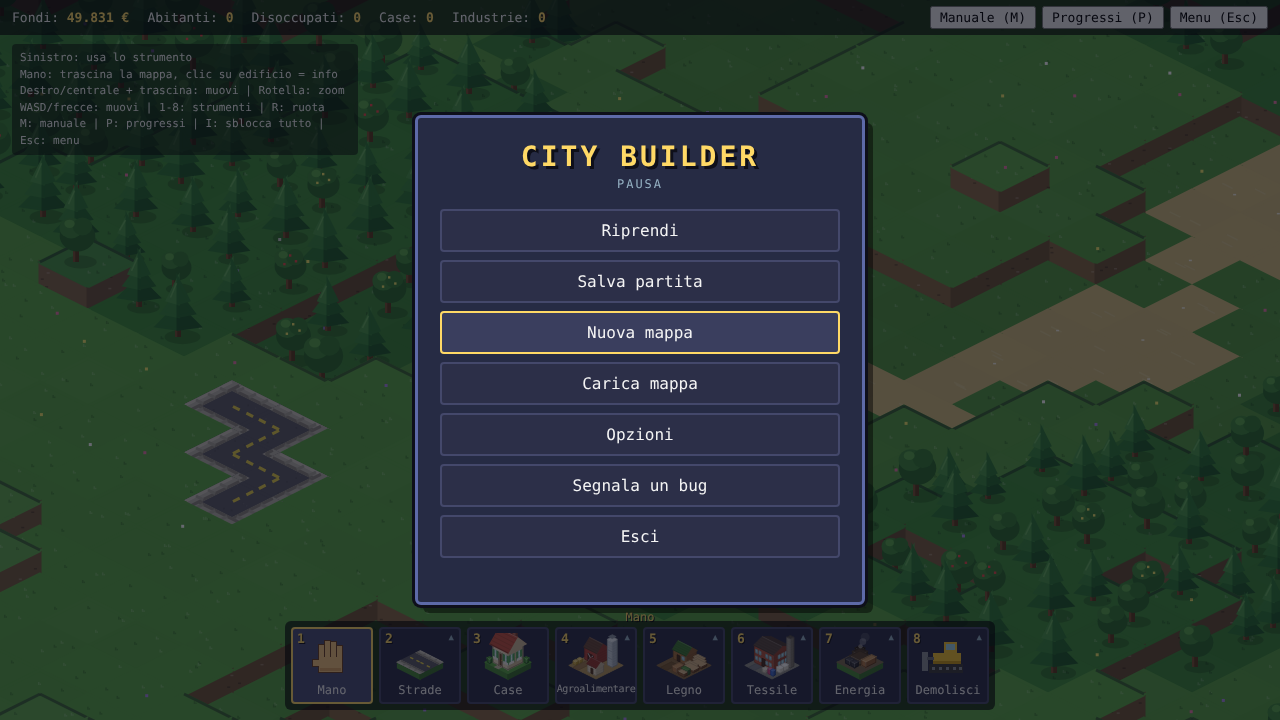
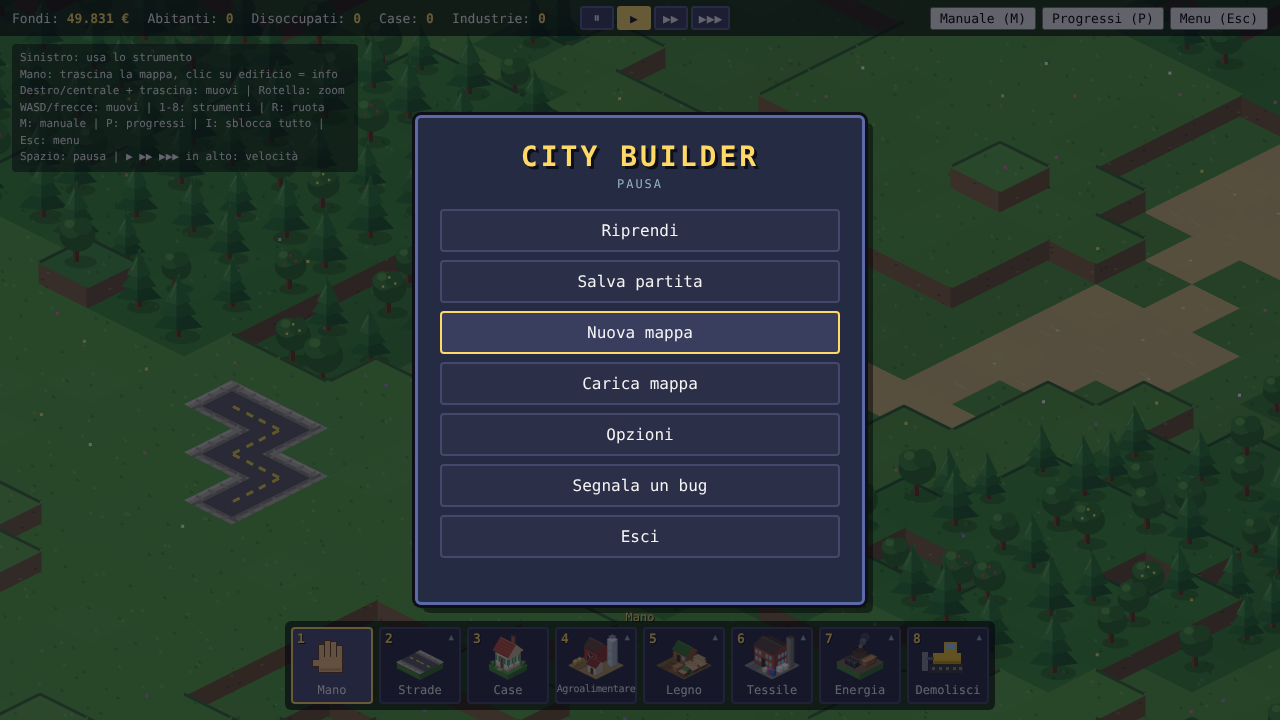
Pausa e velocità del gioco (normale, veloce, super rapido); tasto I con 10 milioni; distribuzione del magazzino anche da vuoto; icona della casa non più tagliata
Claude-Session: https://claude.ai/code/session_01EPii4HtPudbMHHXMoA5j75

diff --git a/js/i18n-es.js b/js/i18n-es.js
@@ -4,8 +4,8 @@ DICT.es = {
   // menú y barra superior
   'Fondi:': 'Fondos:', 'Abitanti:': 'Habitantes:', 'Disoccupati:': 'Desempleados:', 'Case:': 'Casas:', 'Industrie:': 'Industrias:',
   'Manuale (M)': 'Manual (M)', 'Progressi (P)': 'Progreso (P)', 'Menu (Esc)': 'Menú (Esc)', 'Fatto': 'Hecho', '↻ Ruota (R)': '↻ Girar (R)',
-  'Sinistro: usa lo strumento<br>Mano: trascina la mappa, clic su edificio = info<br>Destro/centrale + trascina: muovi | Rotella: zoom<br>WASD/frecce: muovi | 1-8: strumenti | R: ruota<br>M: manuale | P: progressi | I: sblocca tutto | Esc: menu':
-    'Clic izquierdo: usar la herramienta<br>Mano: arrastrar el mapa, clic en edificio = info<br>Derecho/central + arrastrar: mover | Rueda: zoom<br>WASD/flechas: mover | 1-8: herramientas | R: girar<br>M: manual | P: progreso | I: desbloquear todo | Esc: menú',
+  'Sinistro: usa lo strumento<br>Mano: trascina la mappa, clic su edificio = info<br>Destro/centrale + trascina: muovi | Rotella: zoom<br>WASD/frecce: muovi | 1-8: strumenti | R: ruota<br>M: manuale | P: progressi | I: sblocca tutto | Esc: menu<br>Spazio: pausa | ▶ ▶▶ ▶▶▶ in alto: velocità':
+    'Clic izquierdo: usar la herramienta<br>Mano: arrastrar el mapa, clic en edificio = info<br>Derecho/central + arrastrar: mover | Rueda: zoom<br>WASD/flechas: mover | 1-8: herramientas | R: girar<br>M: manual | P: progreso | I: desbloquear todo | Esc: menú<br>Espacio: pausa | ▶ ▶▶ ▶▶▶ arriba: velocidad',
   'Progressi': 'Progreso', 'Manuale': 'Manual', 'Come funziona ogni settore': 'Cómo funciona cada sector',
   'Riprendi': 'Continuar', 'Salva partita': 'Guardar partida', 'Nuova mappa': 'Nuevo mapa', 'Carica mappa': 'Cargar mapa', 'Opzioni': 'Opciones', 'Esci': 'Salir',
   'Nuova mappa: grandezza': 'Nuevo mapa: tamaño', 'Indietro': 'Atrás', 'Lingua': 'Idioma', 'Audio, grafica e controlli: ci stiamo lavorando!': 'Audio, gráficos y controles: ¡estamos trabajando en ello!',
@@ -65,7 +65,7 @@ DICT.es = {
   'Pozzo petrolifero (e magazzino merci).': 'Pozo petrolífero (y almacén de mercancías).',
   'Già sbloccato': 'Ya desbloqueado', 'Prima sblocca: {list}': 'Primero desbloquea: {list}', 'Fondi insufficienti (servono {m})': 'Fondos insuficientes (hacen falta {m})',
   'Sbloccato: {x}': 'Desbloqueado: {x}', 'Sbloccati {a} di {b} - Fondi: {m}': 'Desbloqueados {a} de {b} - Fondos: {m}', 'Già disponibili:': 'Ya disponibles:', 'colture:': 'cultivos:',
-  'Serve prima: {list}': 'Necesita antes: {list}', 'Sbloccato': 'Desbloqueado', 'Sblocca - {m}': 'Desbloquear - {m}', 'Tutto sbloccato (tasto I)': 'Todo desbloqueado (tecla I)',
+  'Serve prima: {list}': 'Necesita antes: {list}', 'Sbloccato': 'Desbloqueado', 'Sblocca - {m}': 'Desbloquear - {m}', 'Tutto sbloccato e 10 milioni di fondi (tasto I)': 'Todo desbloqueado y 10 millones de fondos (tecla I)',
   'Bloccato: sbloccalo nei Progressi (P)': 'Bloqueado: desbloquéalo en Progreso (P)',
   // mensajes de construcción y carreteras
   'Fondi insufficienti': 'Fondos insuficientes', 'Fuori dalla mappa': 'Fuera del mapa', "C'è già un binario": 'Ya hay vías de tren', "C'è già una strada": 'Ya hay una carretera',
@@ -126,6 +126,14 @@ DICT.es = {
   'Solo merci (legno, mobili, cotone, lana, tessuti, vestiti, energia). Manda la merce solo agli edifici che scegli qui sotto come uscita.': 'Solo mercancías (madera, muebles, algodón, lana, telas, ropa, energía). Envía la mercancía solo a los edificios que elijas abajo como salida.',
   'Si rifornisce dai magazzini che lo hanno come uscita. Tasse: {n}% del prezzo.': 'Se abastece de los almacenes que lo tienen como salida. Impuestos: {n}% del precio.',
   'Un magazzino rifornisce solo gli edifici che hai scelto come sua uscita (nel suo pannello): da lì fabbriche e negozi chiedono prima quello che gli manca. Il supermercato lascia la precedenza alle fabbriche per le merci che loro trasformano (es. la farina va prima al panificio).': 'Un almacén solo abastece a los edificios que elegiste como su salida (en su panel): de ahí fábricas y tiendas piden primero lo que les falta. El supermercado da prioridad a las fábricas para las mercancías que transforman (p. ej. la harina va primero a la panadería).',
+  'Pausa (Spazio)': 'Pausa (Espacio)',
+  'Normale': 'Normal',
+  'Veloce': 'Rápido',
+  'Super rapido': 'Superrápido',
+  'Gioco in pausa (Spazio per riprendere)': 'Juego en pausa (Espacio para seguir)',
+  'Il gioco riprende': 'El juego sigue',
+  'Distribuzione ({n} merci)': 'Distribución ({n} mercancías)',
+  'Per ogni merce: Automatica, oppure Personalizzata con la percentuale per ogni uscita.': 'Para cada mercancía: Automática, o Personalizada con el porcentaje de cada salida.',
   'Distribuzione per merce': 'Distribución por mercancía', 'Personalizzata': 'Personalizada', 'Automatica': 'Automática',
   'Clic per tornare alla distribuzione automatica': 'Clic para volver a la distribución automática', 'Clic per scegliere quanto mandare a ogni destinazione': 'Clic para elegir cuánto enviar a cada destino',
   'Questa merce non va da nessuna parte: metti almeno una percentuale.': 'Esta mercancía no va a ninguna parte: pon al menos un porcentaje.', 'Va alla destinazione che ne ha bisogno.': 'Va al destino que la necesita.',

diff --git a/js/i18n-en.js b/js/i18n-en.js
@@ -4,8 +4,8 @@ DICT.en = {
   // menu and top bar
   'Fondi:': 'Funds:', 'Abitanti:': 'Residents:', 'Disoccupati:': 'Unemployed:', 'Case:': 'Houses:', 'Industrie:': 'Industries:',
   'Manuale (M)': 'Manual (M)', 'Progressi (P)': 'Progress (P)', 'Menu (Esc)': 'Menu (Esc)', 'Fatto': 'Done', '↻ Ruota (R)': '↻ Rotate (R)',
-  'Sinistro: usa lo strumento<br>Mano: trascina la mappa, clic su edificio = info<br>Destro/centrale + trascina: muovi | Rotella: zoom<br>WASD/frecce: muovi | 1-8: strumenti | R: ruota<br>M: manuale | P: progressi | I: sblocca tutto | Esc: menu':
-    'Left click: use the tool<br>Hand: drag the map, click a building = info<br>Right/middle + drag: move | Wheel: zoom<br>WASD/arrows: move | 1-8: tools | R: rotate<br>M: manual | P: progress | I: unlock all | Esc: menu',
+  'Sinistro: usa lo strumento<br>Mano: trascina la mappa, clic su edificio = info<br>Destro/centrale + trascina: muovi | Rotella: zoom<br>WASD/frecce: muovi | 1-8: strumenti | R: ruota<br>M: manuale | P: progressi | I: sblocca tutto | Esc: menu<br>Spazio: pausa | ▶ ▶▶ ▶▶▶ in alto: velocità':
+    'Left click: use the tool<br>Hand: drag the map, click a building = info<br>Right/middle + drag: move | Wheel: zoom<br>WASD/arrows: move | 1-8: tools | R: rotate<br>M: manual | P: progress | I: unlock all | Esc: menu<br>Space: pause | ▶ ▶▶ ▶▶▶ at the top: speed',
   'Progressi': 'Progress', 'Manuale': 'Manual', 'Come funziona ogni settore': 'How every sector works',
   'Riprendi': 'Resume', 'Salva partita': 'Save game', 'Nuova mappa': 'New map', 'Carica mappa': 'Load map', 'Opzioni': 'Options', 'Esci': 'Quit',
   'Nuova mappa: grandezza': 'New map: size', 'Indietro': 'Back', 'Lingua': 'Language', 'Audio, grafica e controlli: ci stiamo lavorando!': 'Audio, graphics and controls: we are working on it!',
@@ -65,7 +65,7 @@ DICT.en = {
   'Pozzo petrolifero (e magazzino merci).': 'Oil well (and goods warehouse).',
   'Già sbloccato': 'Already unlocked', 'Prima sblocca: {list}': 'Unlock first: {list}', 'Fondi insufficienti (servono {m})': 'Not enough funds ({m} needed)',
   'Sbloccato: {x}': 'Unlocked: {x}', 'Sbloccati {a} di {b} - Fondi: {m}': 'Unlocked {a} of {b} - Funds: {m}', 'Già disponibili:': 'Already available:', 'colture:': 'crops:',
-  'Serve prima: {list}': 'Needs first: {list}', 'Sbloccato': 'Unlocked', 'Sblocca - {m}': 'Unlock - {m}', 'Tutto sbloccato (tasto I)': 'Everything unlocked (I key)',
+  'Serve prima: {list}': 'Needs first: {list}', 'Sbloccato': 'Unlocked', 'Sblocca - {m}': 'Unlock - {m}', 'Tutto sbloccato e 10 milioni di fondi (tasto I)': 'Everything unlocked and 10 million in funds (I key)',
   'Bloccato: sbloccalo nei Progressi (P)': 'Locked: unlock it in Progress (P)',
   // building and road messages
   'Fondi insufficienti': 'Not enough funds', 'Fuori dalla mappa': 'Outside the map', "C'è già un binario": 'There is already a railway', "C'è già una strada": 'There is already a road',
@@ -126,6 +126,14 @@ DICT.en = {
   'Solo merci (legno, mobili, cotone, lana, tessuti, vestiti, energia). Manda la merce solo agli edifici che scegli qui sotto come uscita.': 'Goods only (wood, furniture, cotton, wool, fabrics, clothes, energy). It sends goods only to the buildings you choose below as output.',
   'Si rifornisce dai magazzini che lo hanno come uscita. Tasse: {n}% del prezzo.': 'It restocks from the warehouses that have it as output. Taxes: {n}% of the price.',
   'Un magazzino rifornisce solo gli edifici che hai scelto come sua uscita (nel suo pannello): da lì fabbriche e negozi chiedono prima quello che gli manca. Il supermercato lascia la precedenza alle fabbriche per le merci che loro trasformano (es. la farina va prima al panificio).': 'A warehouse only supplies the buildings you chose as its output (in its panel): from those, factories and shops first ask for what they lack. The supermarket gives priority to factories for the goods they process (e.g. flour goes to the bakery first).',
+  'Pausa (Spazio)': 'Pause (Space)',
+  'Normale': 'Normal',
+  'Veloce': 'Fast',
+  'Super rapido': 'Super fast',
+  'Gioco in pausa (Spazio per riprendere)': 'Game paused (Space to resume)',
+  'Il gioco riprende': 'The game resumes',
+  'Distribuzione ({n} merci)': 'Distribution ({n} goods)',
+  'Per ogni merce: Automatica, oppure Personalizzata con la percentuale per ogni uscita.': 'For each good: Automatic, or Custom with the percentage for each output.',
   'Distribuzione per merce': 'Distribution per good', 'Personalizzata': 'Custom', 'Automatica': 'Automatic',
   'Clic per tornare alla distribuzione automatica': 'Click to go back to automatic distribution', 'Clic per scegliere quanto mandare a ogni destinazione': 'Click to choose how much to send to each destination',
   'Questa merce non va da nessuna parte: metti almeno una percentuale.': 'This good goes nowhere: set at least one percentage.', 'Va alla destinazione che ne ha bisogno.': 'It goes to the destination that needs it.',

diff --git a/js/panel.js b/js/panel.js
@@ -123,15 +123,20 @@ function goodsOut(b) {
   if (N && N.out) for (const g of Object.keys(N.out)) set.add(g);
   for (const r of RECIPES[b.kind] || []) if (b.recipes[r.out] !== false) set.add(r.out);
   for (const g of Object.keys(b.split || {})) set.add(g);
+  // magazzino: tutte le merci che accetta, anche se adesso è vuoto (richiesta dell'utente:
+  // la distribuzione si sceglie prima che arrivi la merce)
+  if (isWarehouse(b)) for (const g of Object.keys(GOODS)) if (warehouseTakes(b.kind, g) && b.accept[g] !== false) set.add(g);
   return [...set].filter(g => GOODS[g]);
 }
 
 // Distribuzione per merce: per ogni merce che può andare a più destinazioni accese si sceglie
 // "Automatica" (come prima) o la percentuale per ogni destinazione (es. 50% e 50%, o 100% a una).
-function splitSection(box, b) {
+function splitSection(box, b, inSub) {
   const rows = goodsOut(b).map(g => ({ g, ws: b.dests.map(id => game.buildings.get(id)).filter(w => w && takesGood(w, g)) }))
     .filter(r => r.ws.length >= 2);
-  box.appendChild(el('div', 'plabel', TR('Distribuzione per merce')));
+  if (!inSub) box.appendChild(el('div', 'plabel', TR('Distribuzione per merce')));
+  // tante merci (es. un magazzino con due uscite): la distribuzione va nella finestra a parte
+  if (!inSub && rows.length > 3) { box.appendChild(subButton('split', TR('Distribuzione ({n} merci)', { n: rows.length }))); return; }
   if (!rows.length) {   // la sezione si vede sempre, con la spiegazione di come accenderla
     box.appendChild(el('div', 'pnote psplit', TR('Accendi almeno due destinazioni che accettano la stessa merce: qui potrai decidere quanta ne va a ognuna (es. 50% e 50%, o 100% a una sola).')));
     return;
@@ -202,16 +207,19 @@ function subButton(kind, text) {
 function closeSubpanel() { subOpen = null; document.getElementById('subpanel').hidden = true; }
 function renderSubpanel(b) {
   const box = document.getElementById('subpanel');
-  const ok = b && ((subOpen === 'accept' && isWarehouse(b)) || (subOpen === 'recipes' && isProcessor(b)));
+  const ok = b && ((subOpen === 'accept' && isWarehouse(b)) || (subOpen === 'recipes' && isProcessor(b)) || (subOpen === 'split' && b.dests));
   if (!ok) { box.hidden = true; if (subOpen && b) subOpen = null; return; }
   box.textContent = '';
   const head = el('div', 'phead');
-  head.appendChild(el('b', 'pname', subOpen === 'accept' ? TR('Cosa accetta') : TR('Ricette')));
+  head.appendChild(el('b', 'pname', subOpen === 'accept' ? TR('Cosa accetta') : subOpen === 'split' ? TR('Distribuzione per merce') : TR('Ricette')));
   const x = el('button', 'pclose', '✕');
   x.addEventListener('click', () => { subOpen = null; renderPanel(); });
   head.appendChild(x);
   box.appendChild(head);
-  if (subOpen === 'accept') {
+  if (subOpen === 'split') {
+    box.appendChild(el('div', 'pnote', TR('Per ogni merce: Automatica, oppure Personalizzata con la percentuale per ogni uscita.')));
+    splitSection(box, b, true);
+  } else if (subOpen === 'accept') {
     box.appendChild(el('div', 'pnote', TR('Clic su una merce per accettarla o rifiutarla.')));
     const grid = el('div', 'pgrid');
     for (const g of Object.keys(GOODS).filter(g => warehouseTakes(b.kind, g))) {

diff --git a/style.css b/style.css
@@ -262,16 +262,16 @@ canvas { display: block; }
 .menu-note.small { font-size: 11px; color: #94b0c2; margin-top: 8px; }
 
 /* Distribuzione per merce (pannello) */
-#panel .psplit { background: #2b3050; border: 1px solid #44486b; border-radius: 4px; padding: 6px; margin: 4px 0; }
-#panel .psplit-head { display: flex; align-items: center; gap: 6px; }
-#panel .psplit-head span { flex: 1; }
-#panel .psplit-mode { flex: 0 0 auto; padding: 2px 8px; font-size: 11px; }
-#panel .psplit-row { display: flex; align-items: center; gap: 4px; margin-top: 5px; }
-#panel .psplit-name { flex: 1; overflow: hidden; text-overflow: ellipsis; white-space: nowrap; font-size: 12px; }
-#panel .psplit-pct { min-width: 38px; text-align: center; color: #ffd966; }
+#panel .psplit, #subpanel .psplit { background: #2b3050; border: 1px solid #44486b; border-radius: 4px; padding: 6px; margin: 4px 0; }
+#panel .psplit-head, #subpanel .psplit-head { display: flex; align-items: center; gap: 6px; }
+#panel .psplit-head span, #subpanel .psplit-head span { flex: 1; }
+#panel .psplit-mode, #subpanel .psplit-mode { flex: 0 0 auto; padding: 2px 8px; font-size: 11px; }
+#panel .psplit-row, #subpanel .psplit-row { display: flex; align-items: center; gap: 4px; margin-top: 5px; }
+#panel .psplit-name, #subpanel .psplit-name { flex: 1; overflow: hidden; text-overflow: ellipsis; white-space: nowrap; font-size: 12px; }
+#panel .psplit-pct, #subpanel .psplit-pct { min-width: 38px; text-align: center; color: #ffd966; }
 #panel .pstep, #subpanel .pstep { width: 22px; height: 20px; padding: 0; background: #3a3f63; color: #f4f4f4; border: 1px solid #5a5f8a; border-radius: 3px; cursor: pointer; font: inherit; }
 #panel .pstep:hover, #subpanel .pstep:hover { background: #4a4f78; }
-#panel .psplit-bar { height: 4px; margin-top: 2px; }
+#panel .psplit-bar, #subpanel .psplit-bar { height: 4px; margin-top: 2px; }
 
 /* Domanda prima di demolire un edificio con della merce */
 .confirm-box { background: #262b44; border: 2px solid #ffd966; border-radius: 6px; padding: 16px 18px; max-width: 380px; width: 100%; color: #f4f4f4; font-family: monospace; box-shadow: 0 6px 0 #0e0f1a; }
@@ -298,3 +298,12 @@ canvas { display: block; }
 #subpanel .pchoice { flex: 1; }
 #panel .psub-open { display: block; width: 100%; text-align: left; margin: 6px 0; padding: 6px 8px; background: #3a3f63; color: #f4f4f4; border: 2px solid #5a5f8a; border-radius: 3px; cursor: pointer; font: inherit; }
 #panel .psub-open:hover, #panel .psub-open.active { border-color: #ffd966; }
+
+/* Velocità del gioco (barra in alto) */
+#topbar .speed-btns { display: flex; gap: 3px; margin-left: 16px; }
+#topbar .speed-btns button { min-width: 34px; padding: 2px 6px; background: #3a3f63; color: #f4f4f4; border: 2px solid #5a5f8a; border-radius: 3px; }
+#topbar .speed-btns button.active { background: #ffd966; color: #1a1c2c; border-color: #ffd966; }
+#topbar .speed-btns button:hover { border-color: #ffd966; }
+/* nomi interi nella distribuzione (prima "Magazzino alimenti 2" e "3" diventavano uguali, tagliati) */
+#panel .psplit-name, #subpanel .psplit-name { white-space: normal; overflow: visible; line-height: 1.25; }
+#subpanel { width: 270px; }

diff --git a/tools/smoke-test.js b/tools/smoke-test.js
@@ -1633,6 +1633,32 @@ function check(cond, msg) {
   });
   check(vq.vans >= 2 && vq.overlap === 0, `furgoni: mai uno sopra l'altro nella stessa direzione (${vq.overlap}, fino a ${vq.vans} furgoni insieme)`);
 
+  // 57. velocità del gioco, tasto I con 10 milioni, distribuzione del magazzino vuoto
+  const sp2 = await page.evaluate(() => {
+    clearVehicles(); newGame(18, 128); game.started = true; if (menuIsOpen()) closeMenu();
+    const r = { speed1: game.speed === 1 };
+    const m0 = game.money; cheatUnlockAll(); r.money = game.money - m0 === 10000000;
+    const N = game.size, c = N / 2;
+    for (let y = c - 10; y < c + 10; y++) for (let x = c - 10; x < c + 10; x++) Object.assign(game.map[y][x], { type: T.GRASS, path: null, main: false, field: false, farm: null, building: null, elev: 2, bridge: null });
+    game.rotation = 0; useTool('warehouse', c - 6, c); useTool('supermarket', c, c); useTool('factory', c, c + 4);
+    const wh = game.map[c][c - 6].building, sm = game.map[c][c].building, fa = game.map[c + 4][c].building;
+    wh.store = {}; wh.dests = [sm.id, fa.id];
+    openBuildingPanel(wh);
+    r.splitUi = document.querySelectorAll('#panel .psplit-mode, #panel .psub-open').length > 1;
+    closePanel();
+    document.querySelector('#speed-btns button[data-speed="5"]').click();
+    r.fast = game.speed === 5 && document.querySelector('#speed-btns button[data-speed="5"]').classList.contains('active');
+    document.querySelector('#speed-btns button[data-speed="0"]').click();
+    r.paused = game.speed === 0;
+    setSpeed(1);
+    return r;
+  });
+  await page.keyboard.press('Space');
+  const paused2 = await page.evaluate(() => { const p = game.speed === 0; setSpeed(1); return p; });
+  check(sp2.speed1 && sp2.fast && sp2.paused && paused2, 'velocità: pausa, normale, super rapido (pulsanti e Spazio)');
+  check(sp2.money, 'tasto I: sblocca tutto e dà 10 milioni');
+  check(sp2.splitUi, 'magazzino vuoto con due uscite: c\'è già la distribuzione per merce');
+
   check(errors.length === 0, 'nessun errore in console' + (errors.length ? ': ' + errors.join(' | ') : ''));
   await browser.close();
 })();

diff --git a/js/input.js b/js/input.js
@@ -198,6 +198,26 @@ addEventListener('keydown', e => {   // con la domanda aperta: Invio = sì, Esc 
   else if (e.key === 'Enter') document.getElementById('confirm-yes').click();
 }, true);
 
+// ---------- Velocità del gioco: pausa, normale, veloce, super rapido ----------
+const SPEED_NAMES = { 0: 'Pausa (Spazio)', 1: 'Normale', 2: 'Veloce', 5: 'Super rapido' };
+function setSpeed(n) {
+  game.speed = n;
+  refreshSpeed();
+}
+function refreshSpeed() {
+  for (const b of document.querySelectorAll('#speed-btns button')) {
+    b.classList.toggle('active', +b.dataset.speed === (game.speed ?? 1));
+    b.title = TR(SPEED_NAMES[b.dataset.speed]);
+  }
+}
+for (const b of document.querySelectorAll('#speed-btns button')) b.addEventListener('click', () => { setSpeed(+b.dataset.speed); b.blur(); });
+let speedBeforePause = 1;
+function togglePause() {
+  if ((game.speed ?? 1) === 0) setSpeed(speedBeforePause || 1);
+  else { speedBeforePause = game.speed ?? 1; setSpeed(0); }
+  toast(game.speed === 0 ? TR('Gioco in pausa (Spazio per riprendere)') : TR('Il gioco riprende'));
+}
+
 addEventListener('keydown', e => {
   if (e.target && (e.target.tagName === 'INPUT' || e.target.tagName === 'TEXTAREA')) return;   // si sta scrivendo un nome
   if (menuIsOpen()) return; // con il menu aperto la tastiera non comanda il gioco
@@ -205,6 +225,7 @@ addEventListener('keydown', e => {
   if (!e.repeat && k === 'm') { toggleManual(); return; }
   if (!e.repeat && k === 'p') { toggleProgress(); return; }
   if (!e.repeat && k === 'i') { cheatUnlockAll(); return; }   // sblocca tutto (per le prove)
+  if (!e.repeat && e.code === 'Space' && game.started) { e.preventDefault(); togglePause(); return; }   // pausa
   if (manualIsOpen() || progressIsOpen()) return;   // con manuale o progressi aperti il resto è fermo
   if (PAN_KEYS[k]) { keysHeld.add(k); e.preventDefault(); return; }
   if (e.repeat) return;

diff --git a/js/ui.js b/js/ui.js
@@ -242,9 +242,9 @@ function makeIcon(draw) {
 }
 
 // un tile visto da vicino: scala s, centrato in basso
-function tileIcon(drawTop) {
+function tileIcon(drawTop, scale) {
   return makeIcon(c => {
-    const s = 1.4;
+    const s = scale || 1.4;   // la casa usa una scala più piccola: con 1.4 il tetto usciva in alto ed era tagliato
     c.setTransform(s, 0, 0, s, 32, 46 - (TH + 4) * s);
     const P = (u, v) => iso(0, 0, u, v, 0);
     const W = P(0, 1), S = P(1, 1), E = P(1, 0), down = p => [p[0], p[1] + 4];
@@ -312,7 +312,7 @@ function buildIcons() {
   ICONS.dirt = tileIcon((c, P) => { diamond(c, P, DIRT_COLORS[0]); drawDirt(c, P, straight, 3, 7, true); });
   ICONS.rail = tileIcon((c, P) => { diamond(c, P, COLORS[T.GRASS][0]); drawRail(c, P, straight); });
   ICONS.field = tileIcon((c, P) => { diamond(c, P, SOIL); drawField(c, P, 'wheat', 3); });
-  ICONS.house = tileIcon((c, P) => { diamond(c, P, COLORS[T.GRASS][0]); drawHouse(c, 0, 0, 0, 0, 0); });
+  ICONS.house = tileIcon((c, P) => { diamond(c, P, COLORS[T.GRASS][0]); drawHouse(c, 0, 0, 0, 0, 0); }, 1.15);
   ICONS.farm = bigIcon(c => drawFarm(c, 0, 0, 0, 0), GROUND.farm);
   ICONS.warehouse = bigIcon(c => drawWarehouse(c, 0, 0, 0, 0), GROUND.warehouse);
   ICONS.factory = bigIcon(c => drawFactory(c, 0, 0, 0, 0), GROUND.factory);
@@ -404,7 +404,7 @@ function groupOf(tool, prefer) {
 // Quando uno sprite finisce di caricarsi, rifà l'icona che lo usa
 function onSpritesLoaded(name) {
   if (name !== 'house' || !ICONS.house) return;
-  ICONS.house = tileIcon((c, P) => { poly(c, [P(0, 0), P(1, 0), P(1, 1), P(0, 1)], COLORS[T.GRASS][0]); drawHouse(c, 0, 0, 0, 0, 0); });
+  ICONS.house = tileIcon((c, P) => { poly(c, [P(0, 0), P(1, 0), P(1, 1), P(0, 1)], COLORS[T.GRASS][0]); drawHouse(c, 0, 0, 0, 0, 0); }, 1.15);
   const img = document.querySelector('#group-homes img');
   if (img) img.src = ICONS.house;
 }

diff --git a/index.html b/index.html
@@ -15,6 +15,12 @@
   <span><span data-i18n>Disoccupati:</span> <b id="unemployed">0</b></span>
   <span><span data-i18n>Case:</span> <b id="houses">0</b></span>
   <span><span data-i18n>Industrie:</span> <b id="industries">0</b></span>
+  <span class="speed-btns" id="speed-btns">
+    <button data-speed="0" title="Pausa (Spazio)">⏸</button>
+    <button data-speed="1" title="Normale">▶</button>
+    <button data-speed="2" title="Veloce">▶▶</button>
+    <button data-speed="5" title="Super rapido">▶▶▶</button>
+  </span>
   <span class="top-btns">
     <button id="manual-btn" data-i18n>Manuale (M)</button>
     <button id="progress-btn" data-i18n>Progressi (P)</button>
@@ -31,7 +37,7 @@
 <div id="toolbar"></div>
 <div id="toast"></div>
 
-<div id="help" data-i18n-html>Sinistro: usa lo strumento<br>Mano: trascina la mappa, clic su edificio = info<br>Destro/centrale + trascina: muovi | Rotella: zoom<br>WASD/frecce: muovi | 1-8: strumenti | R: ruota<br>M: manuale | P: progressi | I: sblocca tutto | Esc: menu</div>
+<div id="help" data-i18n-html>Sinistro: usa lo strumento<br>Mano: trascina la mappa, clic su edificio = info<br>Destro/centrale + trascina: muovi | Rotella: zoom<br>WASD/frecce: muovi | 1-8: strumenti | R: ruota<br>M: manuale | P: progressi | I: sblocca tutto | Esc: menu<br>Spazio: pausa | ▶ ▶▶ ▶▶▶ in alto: velocità</div>
 
 <!-- Progressi: sblocchi a pagamento (tasto P) -->
 <div id="progress" class="overlay" hidden>

diff --git a/js/app.js b/js/app.js
@@ -11,7 +11,9 @@ function loop(now) {
   const dt = Math.max(0, ((now || performance.now()) - lastTime) / 1000);
   lastTime = now || performance.now();
   panWithKeys(Math.min(dt, 0.05));
-  simUpdate(dt);
+  // velocità del gioco: 0 = fermo, 1 normale, 2 veloce, 5 super rapido (a passi piccoli, così i veicoli non saltano)
+  let left = dt * (game.speed ?? 1);
+  while (left > 1e-6) { const st = Math.min(left, 0.1); simUpdate(st); left -= st; }
   panelUpdate(dt);
   // l'acqua si anima ~8 volte al secondo (solo se si vede e lo zoom è vicino: da lontano costerebbe troppo)
   if (waterSeen && zoomLevel() >= 1 && lastTime - lastWaterFrame > 125) { lastWaterFrame = lastTime; needsDraw = true; }
@@ -32,5 +34,6 @@ initManual();
 initBugReport();
 updateHud();
 updateInfo();
+refreshSpeed();
 openMenu('main');
 loop();

diff --git a/js/progress.js b/js/progress.js
@@ -52,10 +52,11 @@ function unlockAll() { game.unlocked = new Set(UNLOCKS.map(u => u.id)); refreshL
 function cheatUnlockAll() {
   if (!game.started) return;
   unlockAll();
+  game.money += 10000000;   // e 10 milioni di fondi per provare tutto (richiesta dell'utente)
   game.dirty = true;
   updateHud();
   if (progressIsOpen()) renderProgress();
-  toast(TR('Tutto sbloccato (tasto I)'));
+  toast(TR('Tutto sbloccato e 10 milioni di fondi (tasto I)'));
 }
 function resetUnlocks() { game.unlocked = new Set(); }
 

diff --git a/js/game.js b/js/game.js
@@ -350,6 +350,8 @@ function newGame(seed, size) {
   game.map = generateTerrain(seed, game.size);
   game.money = START_MONEY;
   game.grid = null;
+  game.speed = 1;   // velocità normale
+  if (typeof refreshSpeed === 'function') refreshSpeed();
   if (typeof resetUnlocks === 'function') resetUnlocks();   // mappa nuova: si parte con poco (progress.js)
   game.pathKeys = new Set();
   game.buildings = new Map();

diff --git a/js/i18n.js b/js/i18n.js
@@ -86,6 +86,7 @@ function setLanguage(l) {
   if (tool && !toolLocked(tool)) setTool(tool);
   refreshLocks();
   updateHud();
+  refreshSpeed();
   if (panelIsOpen()) renderPanel();
   if (manualIsOpen()) renderManual();
   if (progressIsOpen()) renderProgress();
